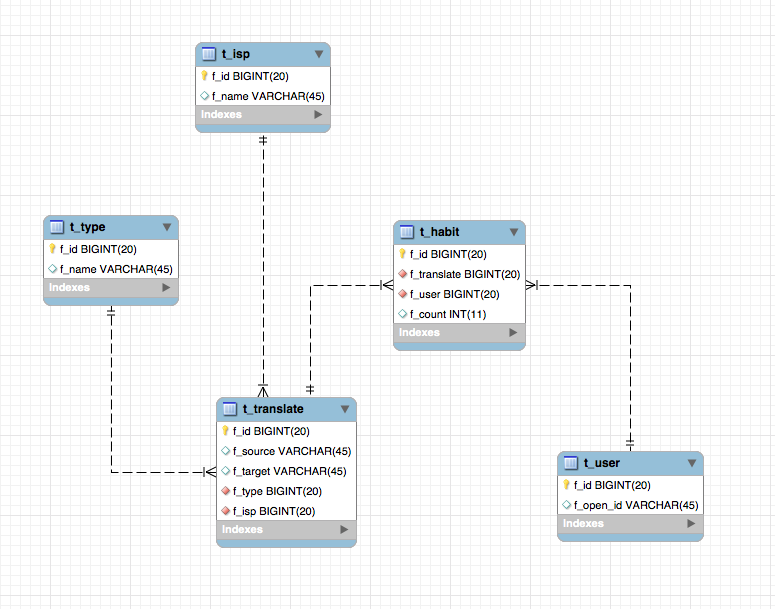
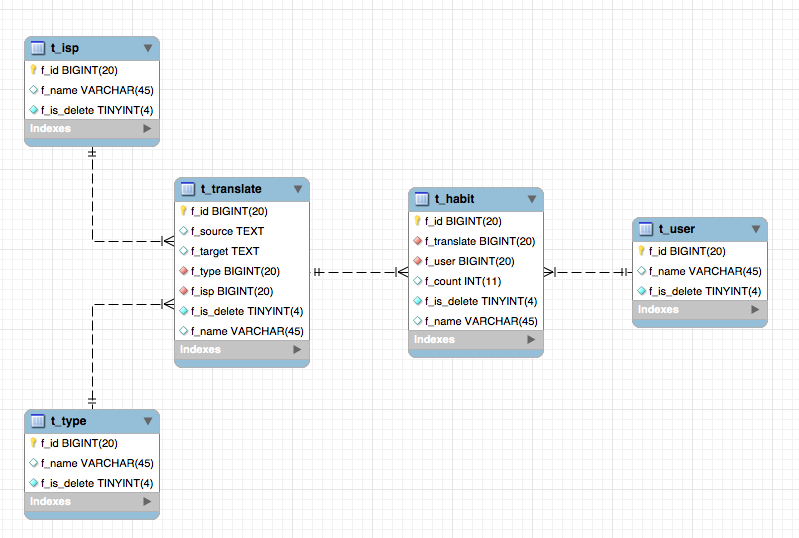
更新说明文档

diff --git a/README.md b/README.md
@@ -2,12 +2,13 @@
 ## 功能
 
 1. 文本自动翻译为中文
-2. 图片识别与自动翻译为中文（待补充）
+2. 图片识别与自动翻译为中文
 3. 多种翻译提供商接入（待补充）
 
 ## 原理
 
 接入微信公众号，得到用户发送的内容，即记录信息后调用对应的翻译api后返回结果
+
 ## 数据库
 
 ![ER图](./er.png)
@@ -17,13 +18,21 @@
 - isp:服务提供商，用于记录服务提供商的名字，用于记录返回
 - user:用户表，记录用户的openid，区分每个用户
 - habit:用户习惯表，对每个用户的每次翻译结果进行计数，用于未来用户画像
+
+### 公共字段说明
+
+1. f_id:唯一标记每个数据的id，为了扩展性和不重复性，使用了mysql的自动增长主键
+2. f_name:字段的含义，数据传输经常使用数据的含义而不是id，使用此公共字段对通用dao支持性更好
+3. f_is_delete:使用该字段标记逻辑删除，以对历史记录进行保留，更好的生成用户画像
+
 ## 技术栈
 
 - JDK8
 - SpringBoot2: 快速配置，一建部署
 - SpringAOP: 对Controller进行全局拦截，自动处理返回结果和自动处理报错
 - SpringMVC
-- Mybatis: 使用MyBatis Generator逆向工程自动实现Model和Mapper
+- ~~Mybatis: 使用MyBatis Generator逆向工程自动实现Model和Mapper~~
+- Mybatis-plus: 使用mybatis plus更好的支持通用dao,通用service
 - JacksonXML: 自动对XML与JDBC对象互相转化
 
 ## 特点
@@ -39,17 +48,19 @@
 3. 目前使用接口仅有腾讯云api
 4. 腾讯云api不支出java9+，spring boot2不支持java7-,所以只能用java8运行
 5. 由于mybatis generator生产的文件不带@Mapper声明，执行mvn clean package需要屏蔽pom.xml内的配置
+6. 订阅后要求5s内回应，若是响应请求时的某个阶段时间过长会导致无法回应。
 
 ## 运行
 
 1. 保证运行环境为java8
 1. 将resource/config下的.example配置文件修改为自己所使用的配置
-2  导入数据库sql文件
+2  在data文件夹内导入数据库sql文件
 4. 运行
 
 ## 测试
 
 1. 关注微信公众号助理Connor
-2. 输入要翻译的语言，等待回复即可
+2. 输入要翻译的文字或图片，等待回复即可
 
-![ER图](./demo.png)
+![文字翻译](./demo1.png)
+![图片翻译](./demo2.png)
